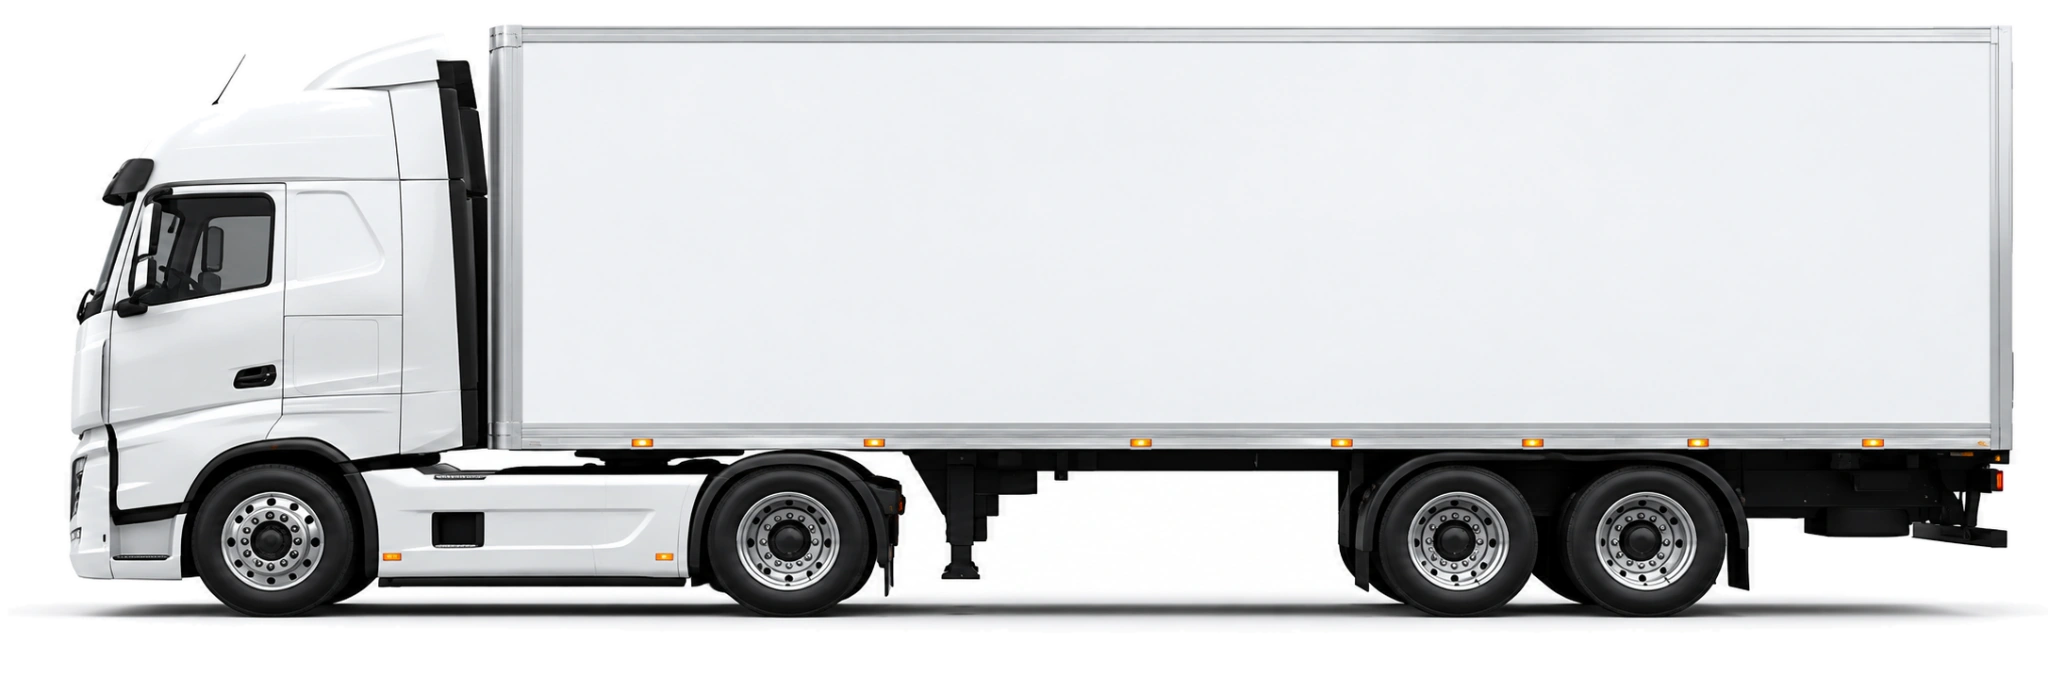
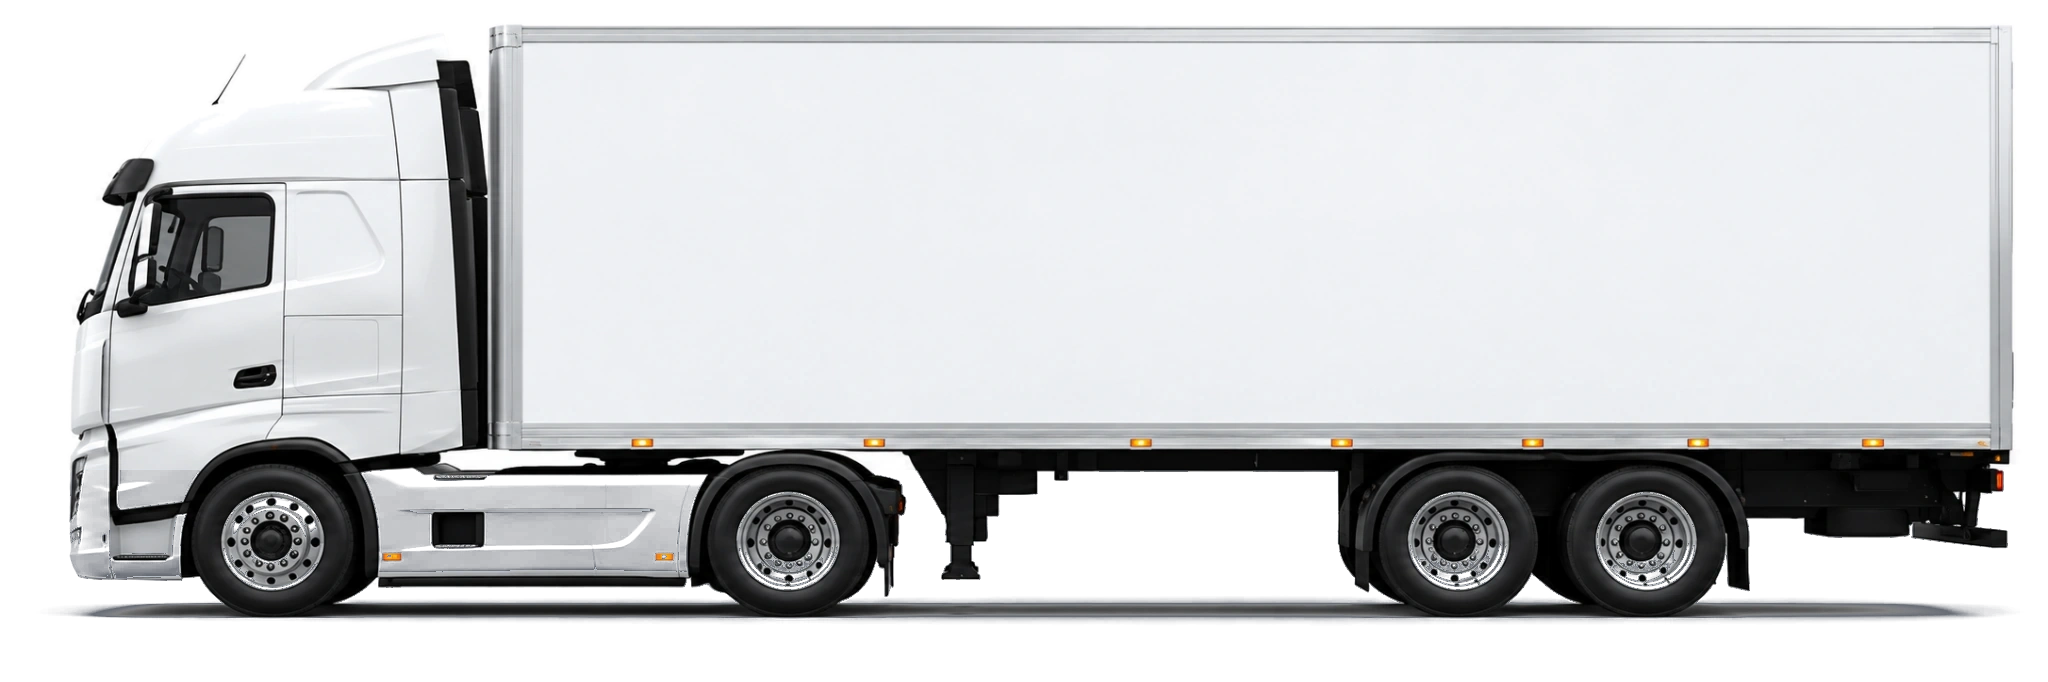
feat: [UI] - Seamlessly blend reefer truck graphic and ground shadow with website theme

diff --git a/frontend/src/components/TruckOverlay.tsx b/frontend/src/components/TruckOverlay.tsx
@@ -82,22 +82,30 @@ export const TruckOverlay: React.FC<TruckOverlayProps> = ({
       </div>
 
       {/* Main Truck Graphic Container with HTML / React Compartment Overlays */}
-      <div className="relative mt-6 rounded-2xl overflow-hidden bg-transparent p-2">
+      <div className="relative mt-6 rounded-2xl overflow-hidden bg-gradient-to-b from-slate-50/80 via-slate-100/40 to-slate-200/50 p-4 sm:p-6 border border-slate-200/70 shadow-inner">
         
-        {/* Base Layer Truck Image */}
-        <div className="relative max-w-4xl mx-auto flex items-center justify-center">
+        {/* Ambient Cold Chain Atmosphere Glow */}
+        <div className="absolute inset-0 bg-radial from-teal-500/5 via-transparent to-transparent pointer-events-none" />
+
+        {/* Base Layer Truck Image with Ground Integration */}
+        <div className="relative max-w-4xl mx-auto flex flex-col items-center justify-center">
           <img
             src="/truck1.webp"
             alt="Cold Chain Reefer Truck"
-            className="w-full h-auto object-contain select-none filter drop-shadow-md"
+            className="w-full h-auto object-contain select-none filter drop-shadow-md transition-all duration-300"
             onError={(e) => {
               // Fallback if asset load fails
               (e.target as HTMLElement).style.display = 'none';
             }}
           />
 
+          {/* Sleek Transit Surface & Ambient Shadow Integration */}
+          <div className="w-full -mt-1.5 h-1.5 rounded-full bg-gradient-to-r from-transparent via-slate-300/70 to-transparent flex items-center justify-center">
+            <div className="w-2/3 h-[1px] bg-gradient-to-r from-transparent via-teal-500/40 to-transparent" />
+          </div>
+
           {/* Top Truck Info Pills (Floating above truck) */}
-          <div className="absolute top-2 left-4 bg-white/90 backdrop-blur-md px-3 py-1.5 rounded-xl border border-slate-200/80 shadow-xs flex items-center gap-3 text-xs">
+          <div className="absolute top-2 left-2 sm:left-4 bg-white/90 backdrop-blur-md px-3 py-1.5 rounded-xl border border-slate-200/80 shadow-xs flex items-center gap-2 sm:gap-3 text-xs">
             <div className="flex items-center gap-1.5 text-slate-700 font-medium">
               <MapPin className="w-3.5 h-3.5 text-rose-500" />
               <span>GPS: {lat.toFixed(4)}°N, {lon.toFixed(4)}°E</span>

diff --git a/tests/test_device_signature.py b/tests/test_device_signature.py
@@ -23,6 +23,15 @@ from models import SessionLocal, Device, Shipment, TelemetryRecord
 
 client = TestClient(app)
 
+@pytest.fixture(autouse=True)
+def clean_test_sequences():
+    db = SessionLocal()
+    try:
+        db.query(TelemetryRecord).filter(TelemetryRecord.sequence >= 800000).delete()
+        db.commit()
+    finally:
+        db.close()
+
 def test_canonical_json_determinism():
     """Ensures dictionary key ordering and whitespace normalization are strictly deterministic."""
     data1 = {"temperature": 4.2, "device_id": "AGRITRACE-001", "sequence": 1}

diff --git a/tests/test_supabase_rls_gateway.py b/tests/test_supabase_rls_gateway.py
@@ -27,6 +27,7 @@ def setup_devices():
     from seed_data import seed_database
     db = SessionLocal()
     try:
+        db.query(TelemetryRecord).filter(TelemetryRecord.sequence >= 800000).delete()
         dev1 = db.query(Device).filter(Device.id == "AGRITRACE-001").first()
         if not dev1 or not dev1.auth_token:
             seed_database()
